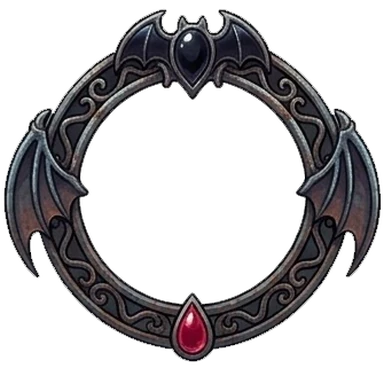
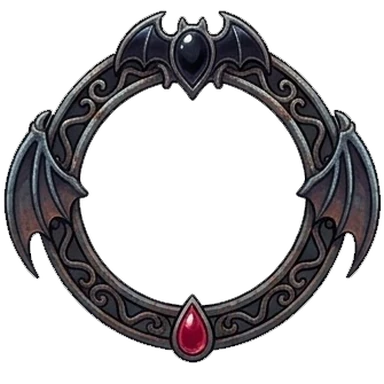
Molduras: recentralização e ícone cobrindo todo o buraco (sem borda de elo aparecendo)
Claude-Session: https://claude.ai/code/session_01PbTN4Ma5asLhsL9rEvekKU

diff --git a/site/shared/molduras.js b/site/shared/molduras.js
@@ -1,7 +1,7 @@
 // Molduras: uma imagem que envolve o ícone do jogador, como uma borda enfeitada.
 // A arte fica em shared/assets/molduras/<id>.webp: quadrada, fundo transparente, com o
-// buraco do meio (onde aparece o ícone) centralizado. `k` = diâmetro do buraco dividido
-// pela largura da imagem; o ícone fica um pouco maior que o buraco (4%) para a moldura
+// buraco do meio (onde aparece o ícone) centralizado. `k` = diâmetro do menor círculo que cobre o buraco, dividido
+// pela largura da imagem; o ícone fica 7% maior que o menor círculo que cobre o buraco para a moldura
 // cobrir a emenda. Quem pode usar é decidido pelo servidor (site_recompensas, tipo
 // 'moldura'). Para lançar uma moldura de teste: mover para MOLDURAS e trocar `tema`
 // por `como` (o texto que explica como conseguir).
@@ -10,8 +10,8 @@ export const MOLDURAS = [];
 
 // Só o administrador recebe (aba Teste do painel).
 export const MOLDURAS_TESTE = [
-  { id: 'hw-moldura-1', nome: 'Morcegos e Rubi', k: 0.5808, tema: 'Halloween · asas de morcego' },
-  { id: 'hw-moldura-2', nome: 'Abóboras e Espinhos', k: 0.5933, tema: 'Halloween · abóboras' },
+  { id: 'hw-moldura-1', nome: 'Morcegos e Rubi', k: 0.5879, tema: 'Halloween · asas de morcego' },
+  { id: 'hw-moldura-2', nome: 'Abóboras e Espinhos', k: 0.5962, tema: 'Halloween · abóboras' },
 ];
 
 const TODAS = new Map([...MOLDURAS, ...MOLDURAS_TESTE].map((m) => [m.id, m]));
@@ -21,6 +21,6 @@ export const srcMoldura = (id) => (TODAS.has(id) ? `/shared/assets/molduras/${id
 // Largura da imagem (em % do ícone) e deslocamento para centralizar.
 export function geometriaMoldura(id) {
   const k = TODAS.get(id)?.k || 0.714;
-  const w = 100 / (k * 1.04);
+  const w = 100 / (k * 1.07);
   return { w, off: -(w - 100) / 2 };
 }
